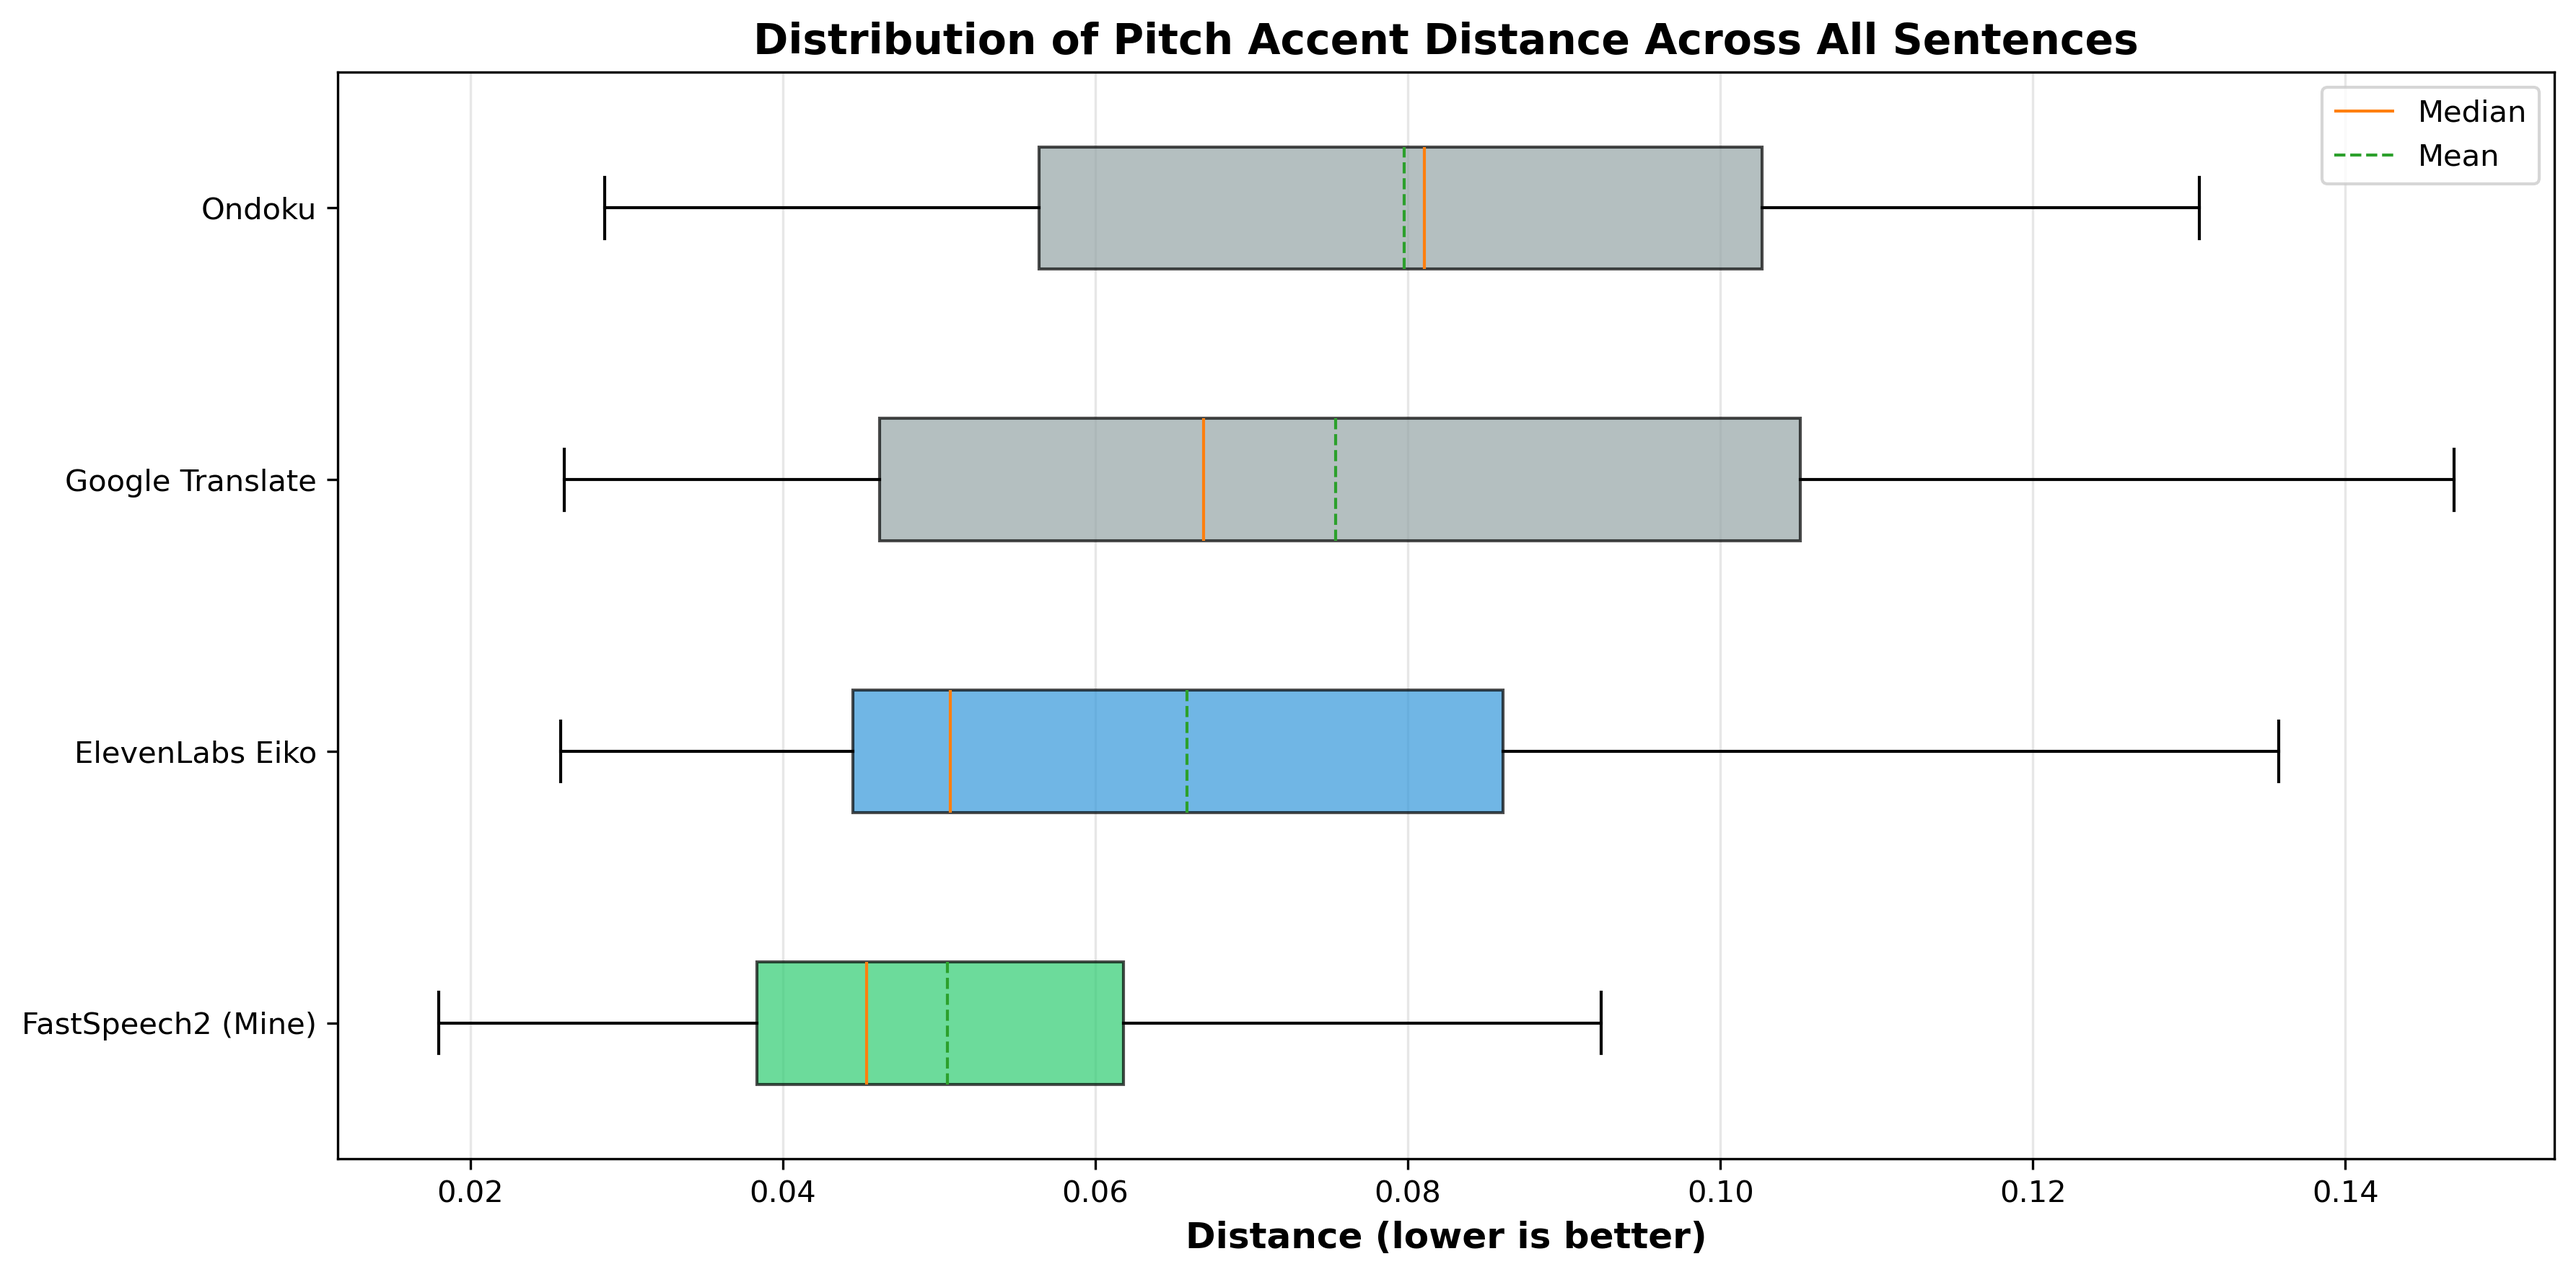
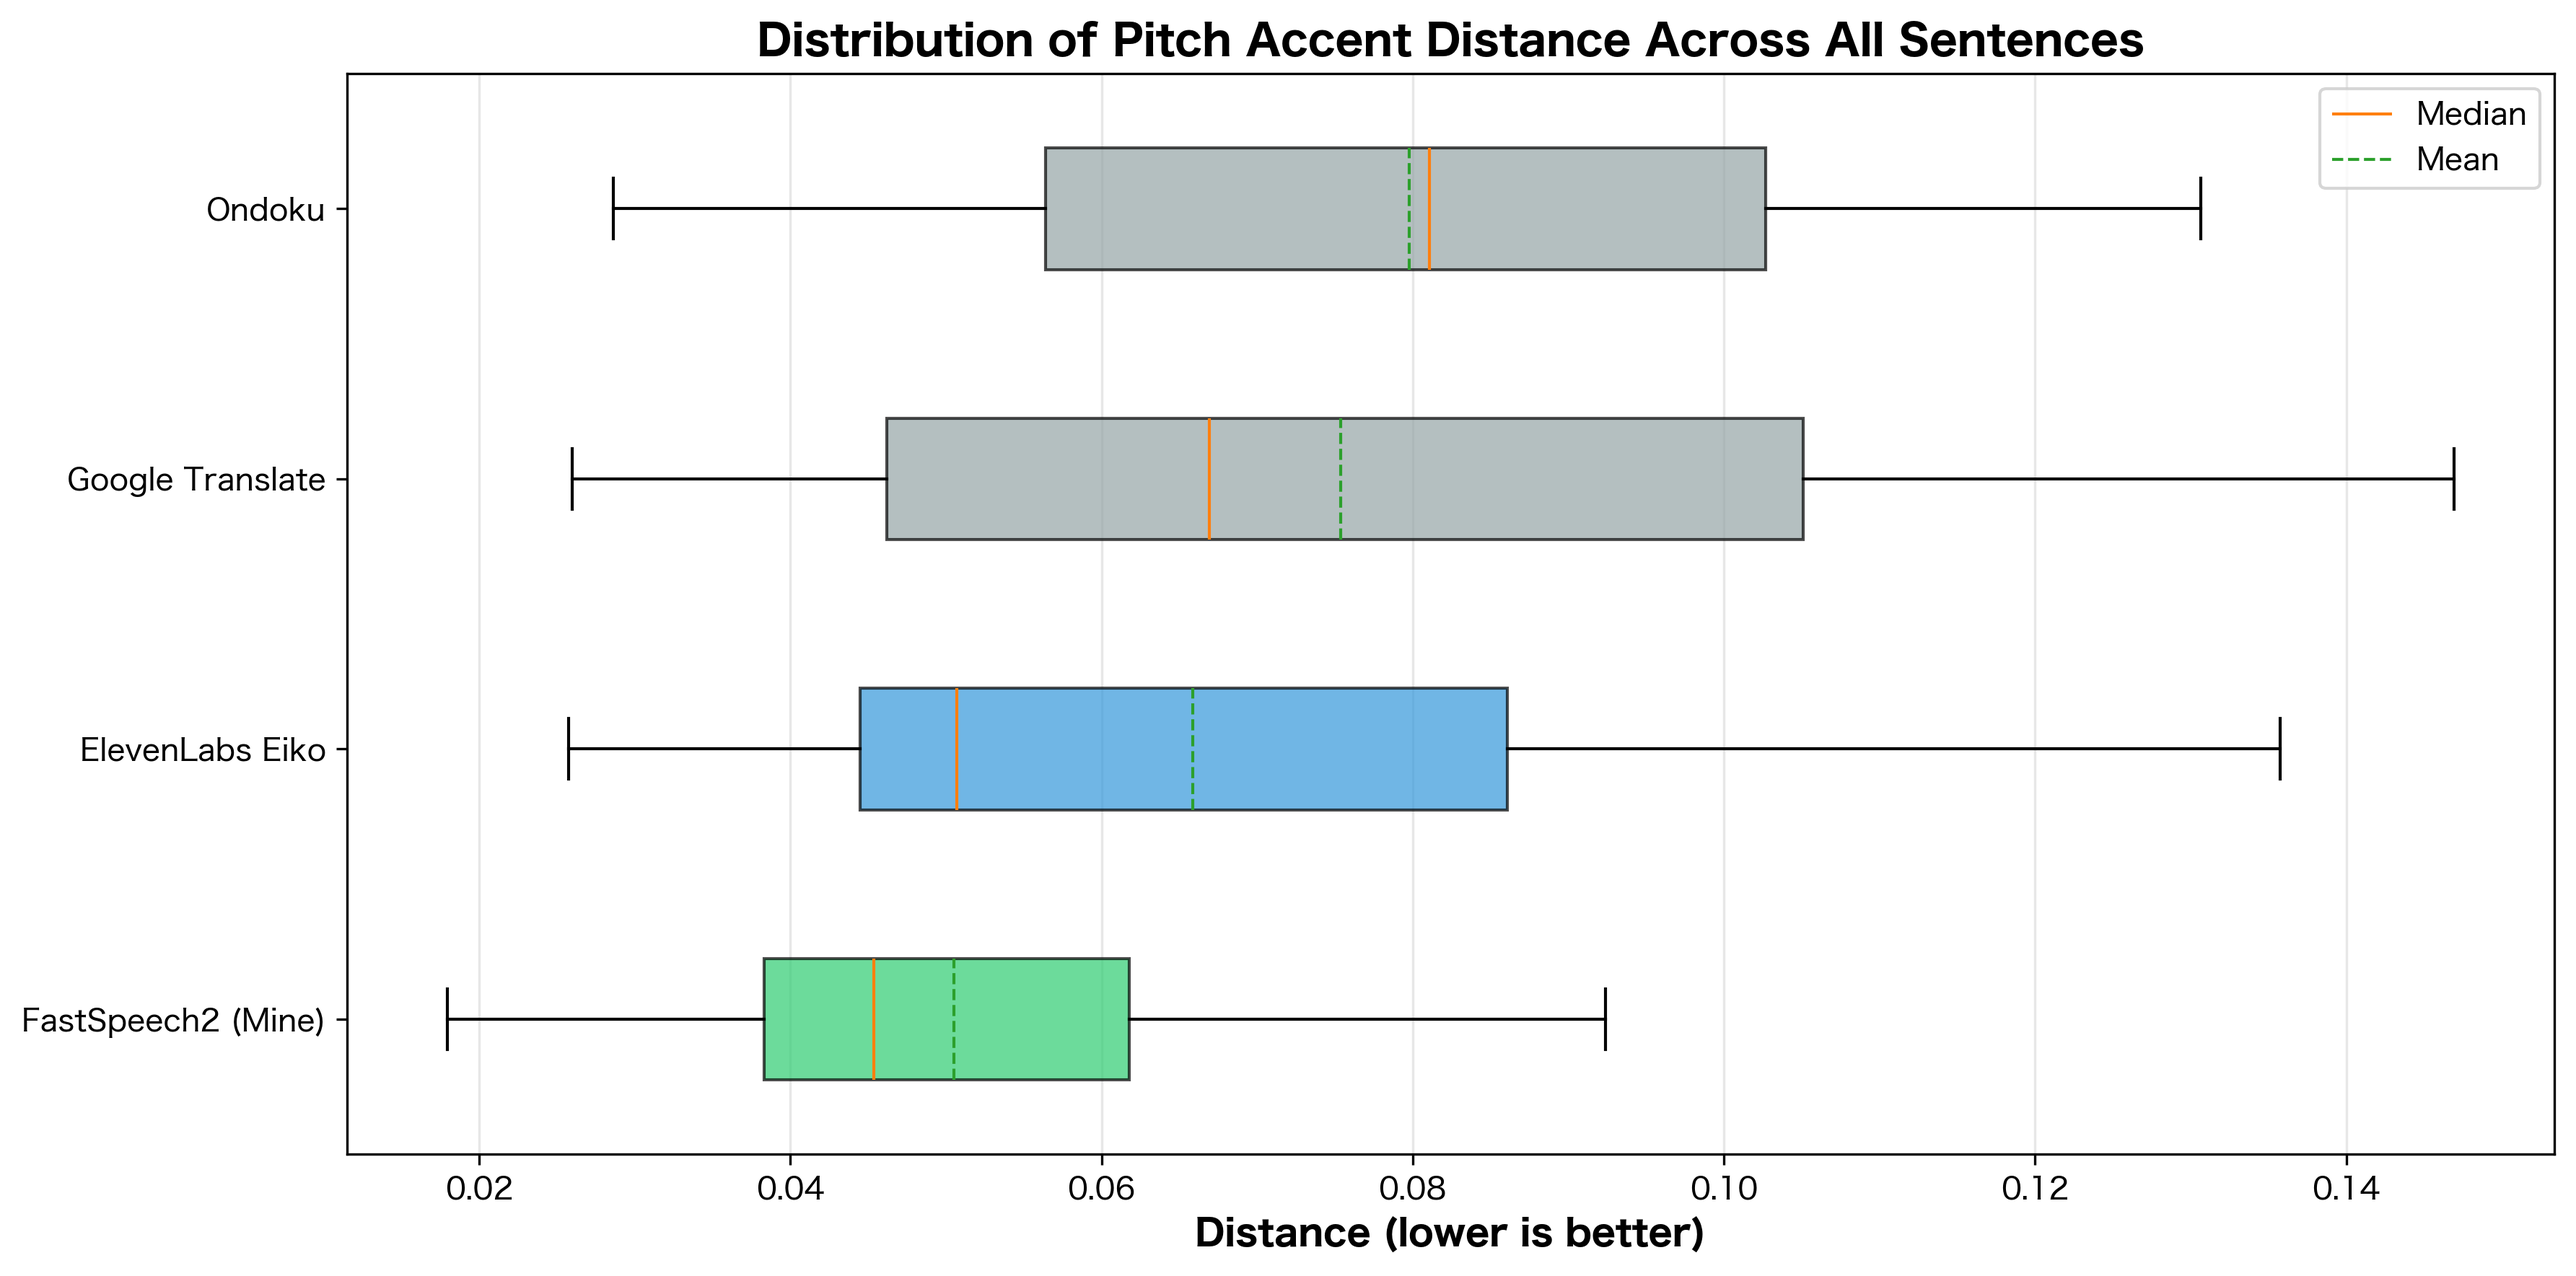
Fixing japanese stuff

diff --git a/comparison/visualize_results.py b/comparison/visualize_results.py
@@ -10,8 +10,55 @@ import sys
 from pathlib import Path
 from typing import Dict, List
 import matplotlib.pyplot as plt
+import matplotlib
 import numpy as np
 from matplotlib.patches import Rectangle
+
+# Configure matplotlib to support Japanese characters
+# Try to find a Japanese-capable font
+def setup_japanese_font():
+    """Configure matplotlib to use a font that supports Japanese characters"""
+    # List of fonts to try (in order of preference)
+    japanese_fonts = [
+        'Hiragino Sans',  # macOS default Japanese font
+        'Hiragino Sans GB',
+        'Arial Unicode MS',
+        'Noto Sans CJK JP',
+        'Yu Gothic',
+        'Meiryo',
+        'MS Gothic'
+    ]
+    
+    # Try to find an available font
+    available_fonts = [f.name for f in matplotlib.font_manager.fontManager.ttflist]
+    
+    for font in japanese_fonts:
+        if font in available_fonts:
+            matplotlib.rcParams['font.family'] = font
+            matplotlib.rcParams['font.sans-serif'] = [font] + matplotlib.rcParams['font.sans-serif']
+            print(f"Using font: {font}")
+            return font
+    
+    # If no Japanese font found, try to use a fallback
+    # On macOS, we can try to use the system default
+    try:
+        import platform
+        if platform.system() == 'Darwin':  # macOS
+            matplotlib.rcParams['font.family'] = 'Hiragino Sans'
+            matplotlib.rcParams['font.sans-serif'] = ['Hiragino Sans'] + matplotlib.rcParams['font.sans-serif']
+        else:
+            matplotlib.rcParams['font.family'] = 'DejaVu Sans'
+    except:
+        pass
+    
+    # Ensure we have a fallback for English characters
+    matplotlib.rcParams['font.sans-serif'] = matplotlib.rcParams['font.sans-serif'] + ['Arial', 'DejaVu Sans', 'sans-serif']
+    
+    print("Warning: No Japanese font found. Japanese characters may not display correctly.")
+    return None
+
+# Setup Japanese font support
+setup_japanese_font()
 
 
 def load_results(json_file: Path) -> Dict:
@@ -49,6 +96,7 @@ def plot_overall_comparison(results: Dict, output_dir: Path):
     bars1 = ax1.barh(models, avg_distances, color=colors)
     ax1.set_xlabel('Average Distance (lower is better)', fontsize=12, fontweight='bold')
     ax1.set_title('Pitch Accent Accuracy - Distance Metric', fontsize=14, fontweight='bold')
+    ax1.set_yticklabels(models, fontsize=10)
     ax1.invert_xaxis()  # Lower values on the right
     
     # Add value labels
@@ -60,20 +108,13 @@ def plot_overall_comparison(results: Dict, output_dir: Path):
     bars2 = ax2.barh(models, avg_scores, color=colors)
     ax2.set_xlabel('Average Score % (higher is better)', fontsize=12, fontweight='bold')
     ax2.set_title('Pitch Accent Accuracy - Score Metric', fontsize=14, fontweight='bold')
+    ax2.set_yticklabels(models, fontsize=10)
     ax2.set_xlim(0, 100)
     
     # Add value labels
     for bar, val in zip(bars2, avg_scores):
         ax2.text(val + 1, bar.get_y() + bar.get_height()/2, f'{val:.1f}%',
                 va='center', ha='left', fontsize=10, fontweight='bold')
-    
-    # Add medal emojis for top 3
-    medals = ['🥇', '🥈', '🥉']
-    for ax in [ax1, ax2]:
-        for i, model in enumerate(models[:3]):
-            y_pos = len(models) - 1 - i
-            ax.text(-0.15, y_pos, medals[i], transform=ax.get_yaxis_transform(),
-                   fontsize=20, va='center', ha='right')
     
     plt.tight_layout()
     output_file = output_dir / 'pitch_accent_overall_comparison.png'
@@ -109,13 +150,17 @@ def plot_per_sentence_heatmap(results: Dict, output_dir: Path):
     models = [models[i] for i in sorted_indices]
     distance_matrix = [distance_matrix[i] for i in sorted_indices]
     
-    # Create heatmap
-    fig, ax = plt.subplots(figsize=(16, len(models) * 0.5 + 2))
+    # Create heatmap with better sizing
+    # Calculate appropriate figure size: more height per model, adequate width for sentences
+    fig_height = max(8, len(models) * 0.8 + 3)  # At least 0.8 units per model, minimum 8
+    fig_width = max(18, len(sentences) * 1.2 + 2)  # At least 1.2 units per sentence, minimum 18
+    fig, ax = plt.subplots(figsize=(fig_width, fig_height))
     
     # Convert to numpy array
     data = np.array(distance_matrix)
     
     # Create custom colormap (green = good/low distance, red = bad/high distance)
+    # Use aspect='equal' or a fixed aspect ratio to prevent squishing
     im = ax.imshow(data, aspect='auto', cmap='RdYlGn_r', interpolation='nearest')
     
     # Set ticks and labels
@@ -123,9 +168,9 @@ def plot_per_sentence_heatmap(results: Dict, output_dir: Path):
     ax.set_yticks(np.arange(len(models)))
     
     # Truncate long sentences for display
-    sentence_labels = [s[:40] + '...' if len(s) > 40 else s for s in sentences]
-    ax.set_xticklabels(sentence_labels, rotation=45, ha='right', fontsize=8)
-    ax.set_yticklabels(models, fontsize=10)
+    sentence_labels = [s[:50] + '...' if len(s) > 50 else s for s in sentences]
+    ax.set_xticklabels(sentence_labels, rotation=45, ha='right', fontsize=9)
+    ax.set_yticklabels(models, fontsize=11)
     
     # Add colorbar
     cbar = plt.colorbar(im, ax=ax)
@@ -141,9 +186,10 @@ def plot_per_sentence_heatmap(results: Dict, output_dir: Path):
     ax.set_title('Pitch Accent Distance per Sentence (Heatmap)', 
                 fontsize=14, fontweight='bold', pad=20)
     
-    plt.tight_layout()
+    # Adjust layout with padding to prevent squishing
+    plt.tight_layout(pad=2.0)
     output_file = output_dir / 'pitch_accent_heatmap.png'
-    plt.savefig(output_file, dpi=300, bbox_inches='tight')
+    plt.savefig(output_file, dpi=300, bbox_inches='tight', pad_inches=0.2)
     print(f"Saved: {output_file}")
     plt.close()
 
@@ -325,7 +371,7 @@ def main():
     json_file = script_dir / "pitch_accent_comparison_results.json"
     
     if not json_file.exists():
-        print(f"❌ Error: Results file not found: {json_file}")
+        print(f"Error: Results file not found: {json_file}")
         print()
         print("Please run the comparison first:")
         print("  python3 compare_pitch_accent.py")
